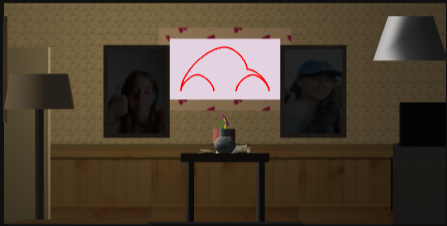
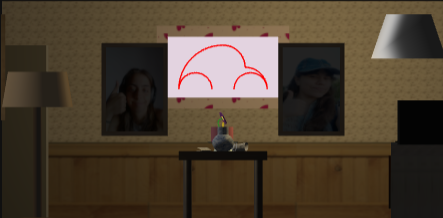
it's the final COUNT-COMMIT

diff --git a/tp1/MyContents.js b/tp1/MyContents.js
@@ -135,7 +135,7 @@ class MyContents {
             0.2
         );
 
-        lightRoom.position.set(2, distanceLightRoom, 0);
+        lightRoom.position.set(-2, distanceLightRoom, 0);
         lightRoom.castShadow = true;
 
         const lightAmbient = new THREE.AmbientLight( 0x404040 ); // soft white light
